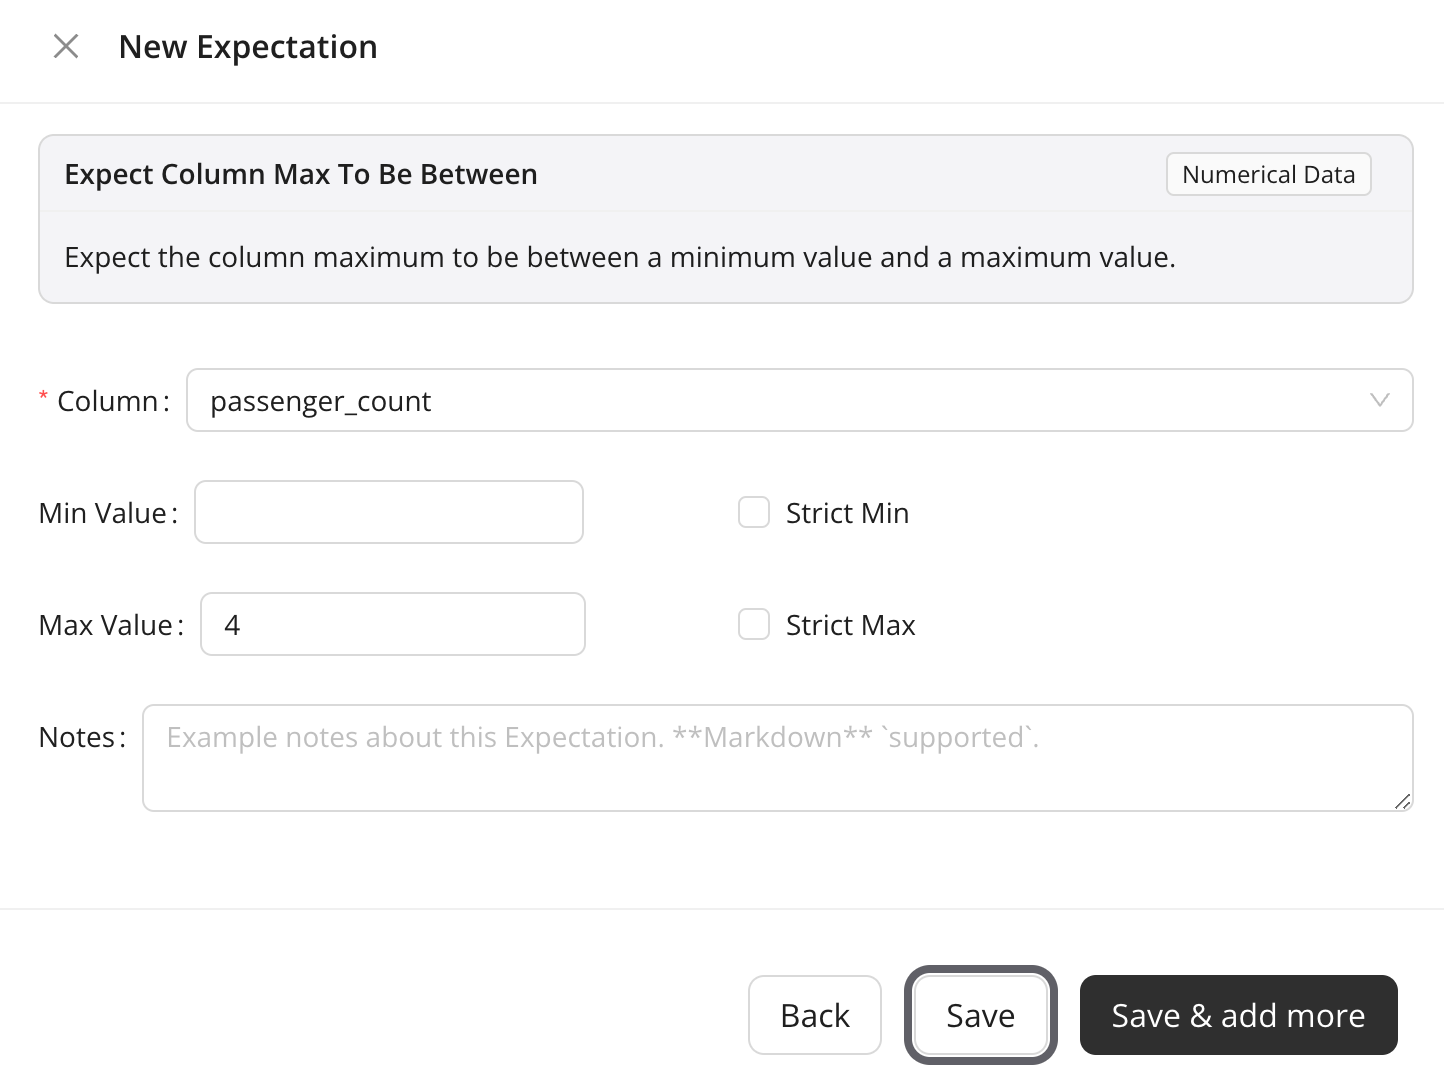
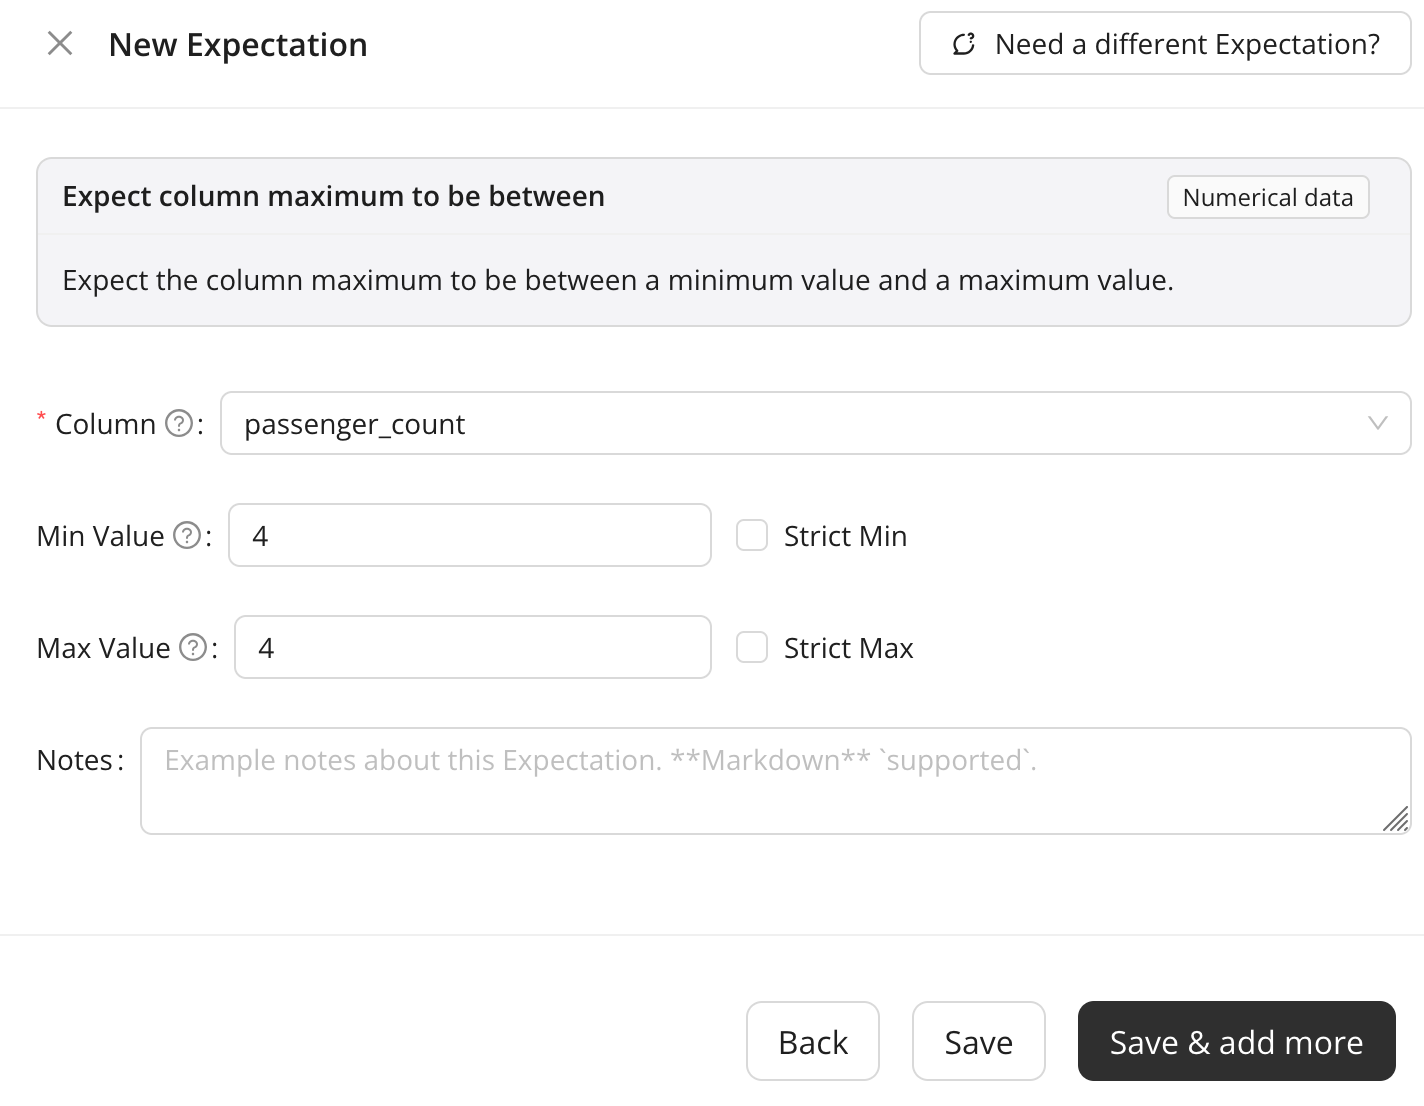
[DSB-1138] add databricks sql workshop
This commit adds the Databricks SQL workshop. Some of the images that
are "common" are included because I saw that the data source name is
in the corner, and I wanted to have that line up with the correct data
source for the workshop so that users have consistency in what they're
seeing for this one. We can redo these for the other workshops, as
we'll likely need to update those soon for other UI changes in GX
Cloud anyway.

This also has an updated "`new_passenger_expectation.png`" image
because we encountered an issue in a recent live workshop where not
putting in the `Min` value resulted in an exception.

diff --git a/get_started_with_gx_cloud_and_databricks_sql/workshop.md b/get_started_with_gx_cloud_and_databricks_sql/workshop.md
@@ -1,19 +1,17 @@
-# Get Started with GX Cloud and Snowflake
+# Get Started with GX Cloud and Databricks SQL
 
-*This workshop content is current as of 26 August 2024.*
+*This workshop content is current as of 20 September 2024.*
 
-Welcome to our workshop! In this workshop, you'll learn how to connect your GX Cloud account to a Snowflake Data Source, create Expectations, and run Validations.
+Welcome to our workshop! In this workshop, you'll learn how to connect your GX Cloud account to a Databricks SQL Data Source, create Expectations, and run Validations.
 
 ## Prerequisites
 - A [GX Cloud](https://hubs.li/Q02mpbXd0) account with Admin or Editor permissions.
-- Credentials for the shared [GX Workshop Snowflake instance](https://vntumnu-gx_workshops.snowflakecomputing.com/). [Contact us](mailto:support@greatexpectations.io) if you need credentials.
 
 ## Agenda
 You'll complete the following tasks in this workshop:
 
 1. [Sign in to GX Cloud](#sign-in-to-gx-cloud)
-
-1. [Create a Snowflake Data Source and Data Asset](#create-a-snowflake-data-source-and-data-asset)
+1. [Create a Databricks SQL Data Source and Data Asset](#create-a-databricks-sql-data-source-and-data-asset)
 1. [Create Expectations](#create-expectations)
 1. [Validate Expectations](#validate-a-data-asset)
 1. [Update the failing Expectation and run the Validation again](#update-the-failing-expectation-and-run-the-validation-again)
@@ -27,44 +25,35 @@ If you're new to GX, an understanding of the following [GX terminology](https://
 ## Sign in to GX Cloud
 Sign in to [GX Cloud](https://hubs.li/Q02mpbXd0).
 
-## Create a Snowflake Data Source and Data Asset
-You can connect to Snowflake from GX Cloud by creating a Data Source and Data Asset.
+## Create a Databricks SQL Data Source and Data Asset
+You can connect to Databricks SQL from GX Cloud by creating a Data Source and Data Asset.
 
-> **Create a Snowflake Data Source**
+> **Create a Databricks SQL Data Source**
 > 1. In GX Cloud, click **Data Assets** > **New Data Asset**, if this is your first time using GX Cloud, the **Data Assets** page will prompt to create a **Data Source**.
-> 1. Click **Snowflake**.
-> 1. Click the **I have created a GX Cloud user with access permissions** checkbox (you do not need to create a user for this workshop) and then **Continue**.
-> 1. Configure the Snowflake Data Source connection:
+> 1. Click **Databricks SQL**.
+> 1. Configure the Databricks SQL Data Source connection:
 >
->    * In the **Data Source name** field, enter a name. For example, `GX Workshop Snowflake`.
->    * In **Username** field, enter the Snowflake username that you use to log in to the [GX Workshop Snowflake instance](https://vntumnu-gx_workshops.snowflakecomputing.com/).
->    * In **Account identifier** field, enter `VNTUMNU-GX_WORKSHOPS`.
->    * In **Password** field, enter the Snowflake password that you use to log in to the [GX Workshop Snowflake instance](https://vntumnu-gx_workshops.snowflakecomputing.com/).
->    * In the **Database** field, enter `GXWORKSHOP`.
->    * In the **Schema** field, enter `PUBLIC`.
->    * In the **Warehouse** field, enter `COMPUTE_WH`.
->    * In the **Role** field, enter `PUBLIC`.
->    * Select **Test connection** to test the Data Source connection upon creation.
-> 1. Click **Continue**.
+>    * In the **Data Source name** field, enter a name. For example, `GX Workshop Databricks`.
+>    * In the **Connection** field, enter the Databricks SQL connection string:
+>        `databricks://token:dapie55153c1eb3a60b1cfdae88839d6a3b5@dbc-8ad5a215-e8c7.cloud.databricks.com:443?http_path=/sql/1.0/warehouses/7d508f960af23038&catalog=workshops&schema=nyctaxi`
+> 1. Click **Connect**.
 
-<img src="img/snowflake_add_data_source_user.png" alt="Check the GX Cloud user box" style="width:600px;"/><br>
+<img src="img/databricks_sql_add_data_source.png" alt="Add a Databricks SQL Data Source" style="width:600px;"/><br>
 
-<img src="img/snowflake_add_data_source.png" alt="Add a Snowflake Data Source" style="width:600px;"/><br>
-
-> **Configure the Snowflake Data Asset**
-> 1. On the **Select tables to import** page, check the box next to `nyc_taxi_data`.
+> **Configure the Databricks SQL Data Asset**
+> 1. On the **Select tables to import as Data Assets** page, check the box next to `nyc_taxi_data`.
 > 1. Click **Add 1 Asset**.
 
-<img src="img/snowflake_add_data_asset.png" alt="Add a Snowflake Data Asset" style="width:600px;"/><br>
+<img src="img/databricks_sql_add_data_asset.png" alt="Add a Databricks SQL Data Asset" style="width:600px;"/><br>
 
-Congratulations! You have successfully added a Snowflake Data Asset to your GX Cloud organization.
+Congratulations! You have successfully added a Databricks SQL Data Asset to your GX Cloud organization.
 
 ## Create Expectations
 Expectations are a unique GX construct that enable you to make simple, declarative assertions about your data. You can think of Expectations as unit tests for your data. They make implicit assumptions about your data explicit, and they use self-explanatory language for describing data. Expectations can help you better understand your data and help you improve data quality.
 
 In GX Cloud, you create Expectations within an Expectation Suite, which is a collection of Expectations.
 
-The Snowflake Data Asset table contains New York City (NYC) taxi data from January 2019. The [NYC Taxi data](https://www.nyc.gov/site/tlc/about/tlc-trip-record-data.page) is a popular set of open source data that contains records of completed taxi cab trips in NYC, including information such as pick up and drop off times, the number of passengers, the fare collected, and so on.
+The Databricks SQL Data Asset schema contains New York City (NYC) taxi trip data. The [NYC Taxi data](https://www.nyc.gov/site/tlc/about/tlc-trip-record-data.page) is a popular set of open source data that contains records of completed taxi cab trips in NYC, including information such as pick up and drop off times, the distance of the trip, the fare collected, and so on.
 
 You'll create Expectations to validate the taxi data. New Expectations are selected from the Expectation picker.
 
@@ -73,7 +62,7 @@ You'll create Expectations to validate the taxi data. New Expectations are selec
 Your first Expectation will expect that there is an associated vendor for each taxi trip. You expect that you should not see any null `vendor_id` values.
 
 > **Create your first Expectation**
-> 1. In the **Data Assets** list, click the `Taxi data` Data Asset.
+> 1. In the **Data Assets** list, click the `nyc_taxi_data` Data Asset.
 > 1. Click the **Overview** tab and then **New Expectation**.
 > 1. Click the **Expect Column Values To Not Be Null** Expectation.
 > 1. Create an Expectation that verifies that there is an associated vendor for each taxi trip:
@@ -109,13 +98,13 @@ You have successfully created two Expectations. Now, make sure that they pass as
 >
 > On the Data Asset **Expectations** page, click **Validate**.
 
-<img src="../common/img/validate_1.png" alt="Validate a Data Asset" style="width:800px;"/><br>
+<img src="./img/validate_1.png" alt="Validate a Data Asset" style="width:800px;"/><br>
 
-After you click **Validate**, GX Cloud queries the data in Snowflake based on the defined Expectations. GX Cloud uses the query results to determine if the data fails or meets your Expectations.
+After you click **Validate**, GX Cloud queries the data in Databricks based on the defined Expectations. GX Cloud uses the query results to determine if the data fails or meets your Expectations.
 
 After validation is completed, a notification appears indicating that the Validation results are ready. To view the results, you can either click on the link provided in the notification, or click on the Data Asset **Validations** tab.
 
-<img src="../common/img/validation_result_1.png" alt="Validation results with passing and failing Expectations" style="width:700px;"/><br>
+<img src="img/validation_result_1.png" alt="Validation results with passing and failing Expectations" style="width:700px;"/><br>
 
 You can see that the `passenger_count` Expectation has failed. This is because some of the larger New York City taxis in NYC can carry up to six passengers.
 
@@ -130,7 +119,7 @@ Now that you know your assumption about taxi passenger capacity was incorrect, y
 
 After the Expectation is updated, run the Validation again. When the notification indicating the Validation was successful appears, click the link in the notification or click the **Validations** tab. The `passenger_count` Expectation was successful. You can view the history of your Data Asset Validations by clicking **All Runs** below **Batches & run history**.
 
-<img src="../common/img/validation_result_2.png" alt="Validation results with all passing Expectations" style="width:700px;"/><br>
+<img src="img/validation_result_2.png" alt="Validation results with all passing Expectations" style="width:700px;"/><br>
 
 ## Profile Data
 You might wonder if there is an easier way to create your Expectations instead of making assumptions or manually inspecting the data. Thankfully, GX Cloud lets you profile your data directly, so that you don't have to!
@@ -141,11 +130,11 @@ When you profile the data for a Data Asset, GX Cloud profiles the Data Asset and
 > 1. Click the Data Asset **Overview** tab. Basic information about your Data Asset is displayed in the **Data Asset Information** pane.
 > 1. Click the **Profile Data** button.
 
-<img src="img/snowflake_profile_data.png" alt="Profile data button for Postgres Data Asset" style="width:700px;"/><br>
+<img src="img/databricks_sql_profile_data.png" alt="Profile data button for Databricks SQL Data Asset" style="width:700px;"/><br>
 
 When the process completes, an updated view of your Data Asset appears. You can see the Data Asset row count as well as some key information about each of the columns. Take some time now to review the data included in metrics.
 
-<img src="img/fetch_snowflake_metrics.png" alt="Data Asset Metrics" style="width:700px;"/><br>
+<img src="img/fetch_databricks_sql_metrics.png" alt="Data Asset Metrics" style="width:700px;"/><br>
 
 When you have profiled the data for a Data Asset, you can use the introspection results when creating new Expectations. Let's create a new Expectation for this Data Asset. Note the several subtle, but key, changes on the Expectation creation page.
 
@@ -162,10 +151,10 @@ When you have profiled the data for a Data Asset, you can use the introspection 
 <img src="../common/img/new_expectation_with_metrics.png" alt="Create a new Expectation using Data Asset Metrics" style="width:500px;"/><br>
 
 ## Conclusion
-Congratulations! You've successfully completed the GX Cloud Snowflake Workshop. You have created a Snowflake Data Source and Data Asset, created Expectations, run some Validations, and fetched Metrics for your data. We hope you have a better understanding of how GX Cloud works and how it can work within your data pipeline.
+Congratulations! You've successfully completed the GX Cloud Databricks SQL Workshop. You have created a Databricks SQL Data Source and Data Asset, created Expectations, run some Validations, and fetched Metrics for your data. We hope you have a better understanding of how GX Cloud works and how it can work within your data pipeline.
 
 ## What's next?
-* [Connect to your own Snowflake instance](https://docs.greatexpectations.io/docs/cloud/connect/connect_snowflake)
+* [Connect to your own Databricks SQL warehouse](https://docs.greatexpectations.io/)
 * [Create your own Expectations in GX Cloud](https://docs.greatexpectations.io/docs/cloud/expectations/manage_expectations)
 * Use the [GX Python API](https://docs.greatexpectations.io/docs/oss/) to create Data Sources, Data Assets, Expectations, Expectation Suites, and Checkpoints
 * Connect to GX Cloud from an orchestrator (for example, [Airflow](https://airflow.apache.org/))

diff --git a/get_started_with_gx_cloud_and_postgres/workshop.md b/get_started_with_gx_cloud_and_postgres/workshop.md
@@ -83,6 +83,7 @@ Create a second Expectation that checks the passenger count values to determine 
 >   1. Click back on the **Overview** tab and click on **New Expectation**.
 >   1. Click the **Expect Column Max To Be Between** Expectation.
 >   1. In the **Column** field, select `passenger_count` from the dropdown.
+>   1. In the **Min Value** field, enter `4`.
 >   1. In the **Max Value** field, enter `4`.
 >   1. Leave the other fields blank.
 >   1. Click **Save**.
